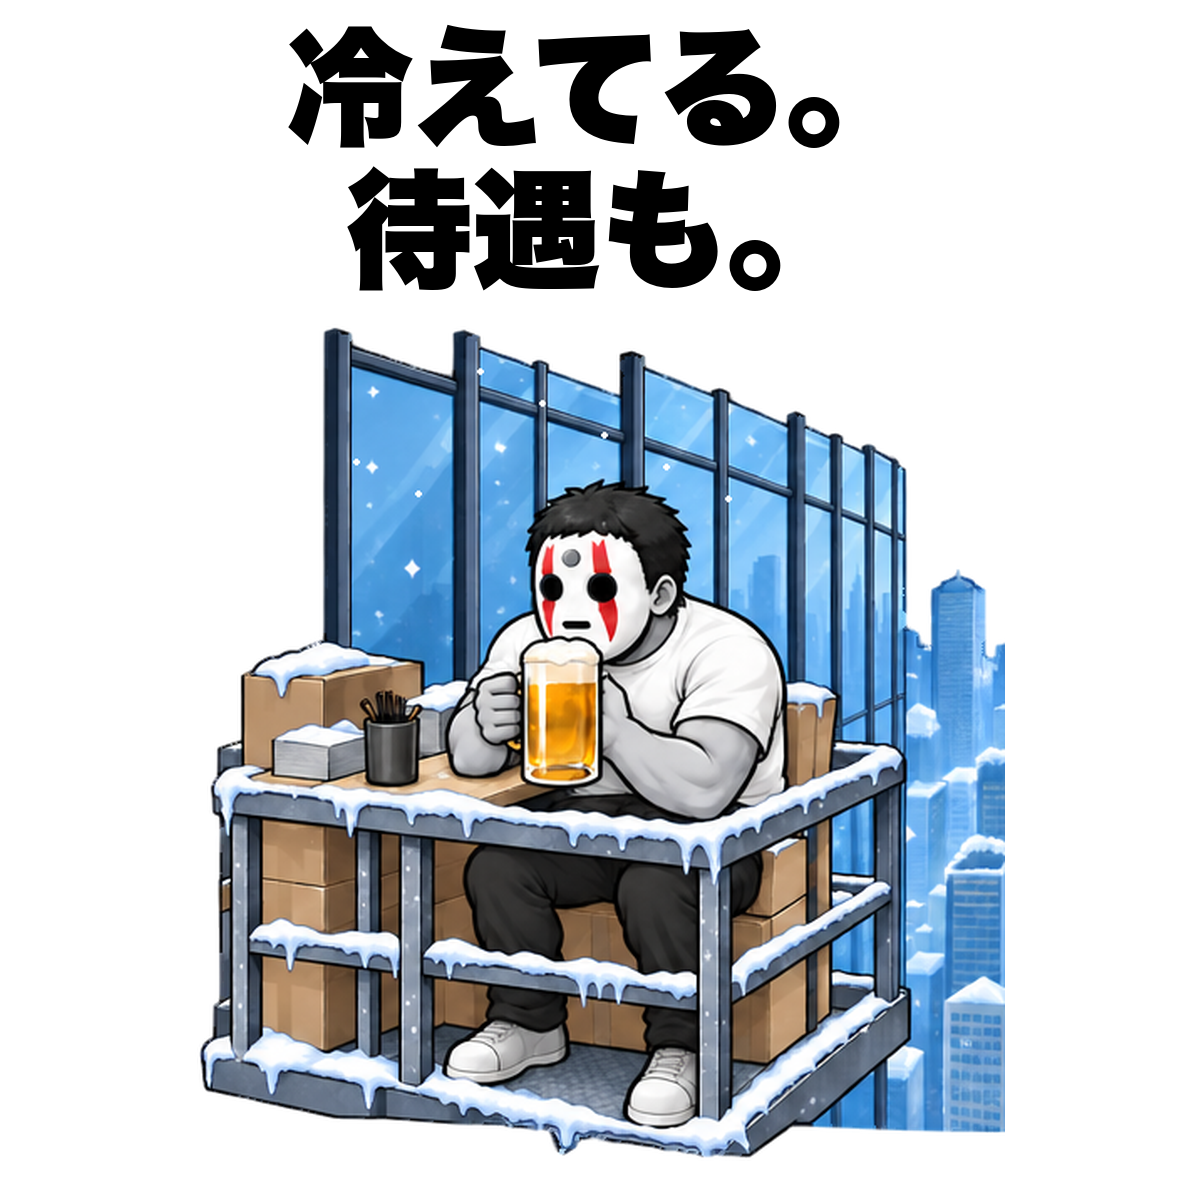
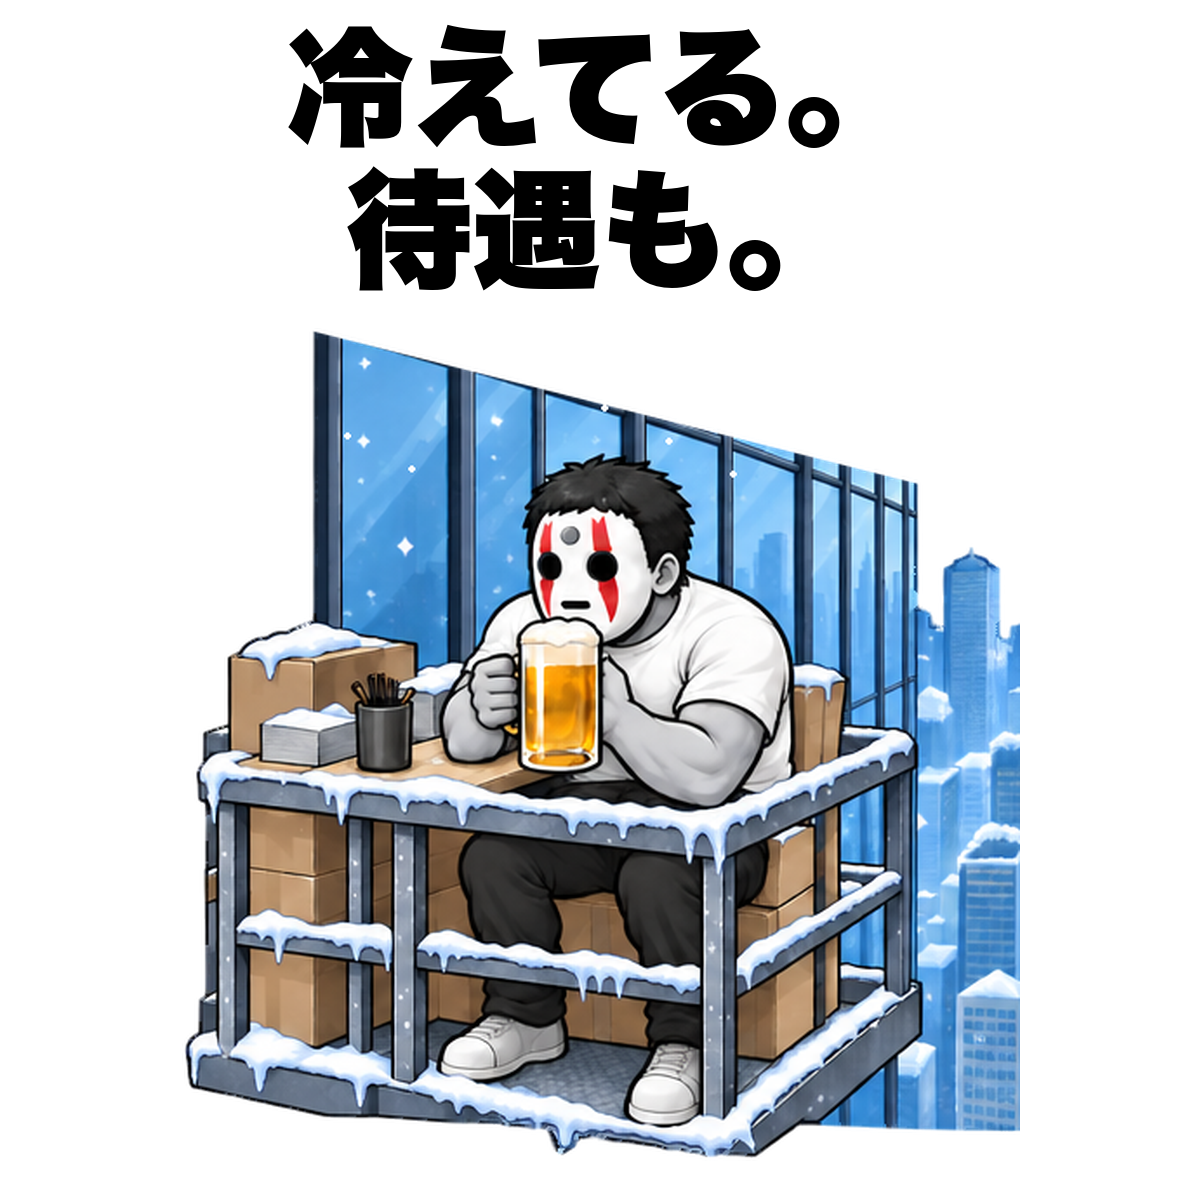
Clean and stabilize winter balcony window edge on Sobaya sticker

Changed region(s): [[0.1542, 0.2775, 0.8633, 0.9867]]

diff --git a/27_LINE_STICKERS/sets/02/tools/build.py b/27_LINE_STICKERS/sets/02/tools/build.py
@@ -6,7 +6,7 @@ import json, shutil, math
 from pathlib import Path
 import cv2
 import numpy as np
-from PIL import Image, ImageDraw, ImageFont, ImageFilter
+from PIL import Image, ImageDraw, ImageFont, ImageFilter, ImageChops
 from scipy.ndimage import distance_transform_edt
 ROOT=Path(__file__).resolve().parents[1]
 FONT='/System/Library/Fonts/ヒラギノ角ゴシック W9.ttc'
@@ -23,7 +23,8 @@ ANCHORS=[[(80,70,60,100),(90,370,65,70),(380,55,55,120)],
 # Regions containing the complete union of moving anatomy, in base cell coords.
 POLYS=[ [[(310,40),(457,40),(457,455),(282,455),(282,180),(310,180)]],
  [[(0,0),(511,0),(511,401),(345,401),(345,506),(235,506),(235,378),(0,378)]],
- [[(160,80),(365,80),(402,290),(320,307),(178,285),(145,220),(112,210),(112,105)]],
+ [[(228,91),(289,92),(316,104),(330,132),(330,158),(359,168),(386,192),(393,241),(387,283),(364,303),(312,305),(271,291),(227,285),(199,283),(176,271),(173,237),(185,211),(198,186),(222,172),(222,133)],
+  [(140,113),(190,109),(210,127),(219,148),(237,154),(237,179),(212,180),(187,169),(163,166),(143,156),(137,139)]],
  [[(305,155),(390,155),(390,310),(260,310),(260,195),(305,195)]],
  [[(40,65),(270,65),(290,260),(355,325),(320,410),(110,430),(45,355)]],
  [],[],
@@ -70,6 +71,15 @@ def fit_cell(im):
  im=im.copy();im.thumbnail((512,512),Image.Resampling.LANCZOS)
  out=Image.new('RGBA',(512,512));out.paste(im,((512-im.width)//2,(512-im.height)//2));return out
 
+def trim_window_top(im):
+ # Cut the projecting mullion ends to one perspective-aligned straight edge.
+ # (106,27) -> (451,114), with subpixel coverage to avoid alpha sawteeth.
+ scale=8;m=Image.new('L',(512*scale,512*scale))
+ slope=87/345;intercept=27-106*slope
+ ImageDraw.Draw(m).polygon([(0,intercept*scale),(512*scale,(512*slope+intercept)*scale),(512*scale,512*scale),(0,512*scale)],fill=255)
+ m=m.resize((512,512),Image.Resampling.LANCZOS)
+ out=im.copy();out.putalpha(ImageChops.multiply(out.getchannel('A'),m));return out
+
 def prepare(k,s):
  d=ROOT/'source/animation'/s['id'];sheet=Image.open(d/'keyframes.png').convert('RGBA')
  cw=sheet.width//3;ch=sheet.height//2
@@ -89,6 +99,7 @@ def prepare(k,s):
   m=m.filter(ImageFilter.GaussianBlur(1))
   frames=[Image.composite(f,frames[0],m) for f in frames]
  (d/'registration.json').write_text(json.dumps(regs,indent=2)+'\n')
+ if k==2:frames=[trim_window_top(f) for f in frames]
  if k==5:
   # Reject disconnected narrow slivers from neighbouring sprite cells.
   kept=[]

diff --git a/27_LINE_STICKERS/sets/02/README.md b/27_LINE_STICKERS/sets/02/README.md
@@ -23,6 +23,8 @@
 
 「飲みに行こう」の演技はユーザー承認済み。上端の隣セル由来の細い断片だけを除去。「二日酔い」は頭を抱えるコマの間を長めにし、丸くなる動作を少しゆっくり見せる。背景固定の試作は継ぎ目が出たため不採用とし、原画を保持。残るスタンプも完成サイズとコマ一覧で顔・背景・透過を確認。
 
+「冷えてる。待遇も。」の窓は上端を遠近に沿う直線でカットし、突き出した柱と輪郭の凹凸を整理。人物と白い息の動作領域を狭め、窓の上端・枠は全コマで同一画素に固定。生成原画は変更せず、`tools/build.py` の切り抜き処理で再現する。
+
 ## 完成ファイル
 
 - `stickers/<ID>/sticker.png`：透過APNG、320×270px、3秒、再生回数1、5〜12フレーム、各1MB未満。
